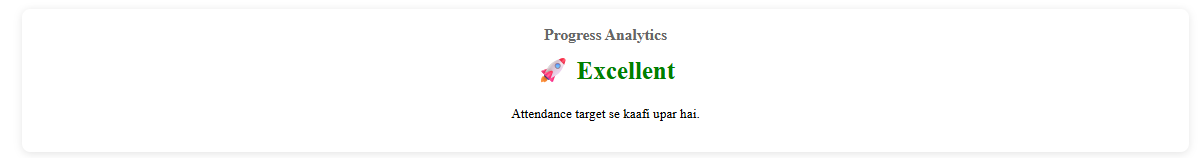
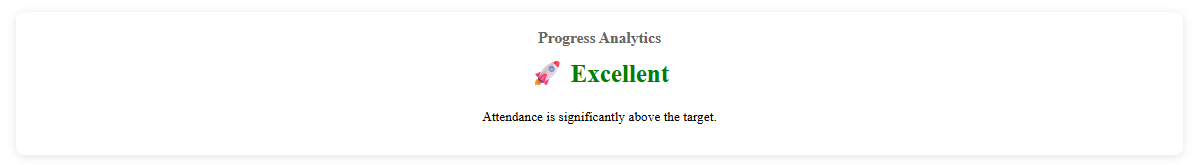
Updated README.md and Screenshots

Changed region(s): [[0.4309, 0.3544, 0.5849, 0.5316], [0.4002, 0.6835, 0.6156, 0.7595], [0.4309, 0.1772, 0.5541, 0.2785]]

diff --git a/README.md b/README.md
@@ -219,27 +219,6 @@ pip install -r requirements.txt
 python app.py
 ```
 
-Open browser:
-
-```text
-http://127.0.0.1:5000/frontend
-```
-
----
-
-# 📸 Screenshots
-
-### Dashboard
-(Add dashboard screenshot here)
-
-### Attendance History
-(Add attendance history screenshot here)
-
-### Analytics
-(Add analytics screenshot here)
-
----
-
 # 🔮 Future Enhancements
 
 - Attendance Charts
@@ -256,4 +235,4 @@ http://127.0.0.1:5000/frontend
 
 # 👨💻 Author
 
-Shreyansh
+**SHREYANSH KUMAR**